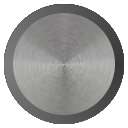
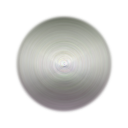
Moar analog

diff --git a/src/pydaw/python/libpydaw/pydaw_widgets.py b/src/pydaw/python/libpydaw/pydaw_widgets.py
@@ -37,7 +37,7 @@ SCENE_BACKGROUND_BRUSH = QBrush(QColor("#424242"))
 DEFAULT_KNOB_SIZE = 48
 KNOB_ARC_PEN = QPen(QtCore.Qt.white, 5.0)
 
-KNOB_BACKGROUND_PEN = QPen(QColor.fromRgb(30, 30, 30, 255), 5.0)
+KNOB_BACKGROUND_PEN = QPen(QColor.fromRgb(120, 120, 120, 255), 5.0)
 
 class QGraphicsRectItemNDL(QGraphicsRectItem):
     """ QGraphicsRectItem without that awful dotted line when selected """
